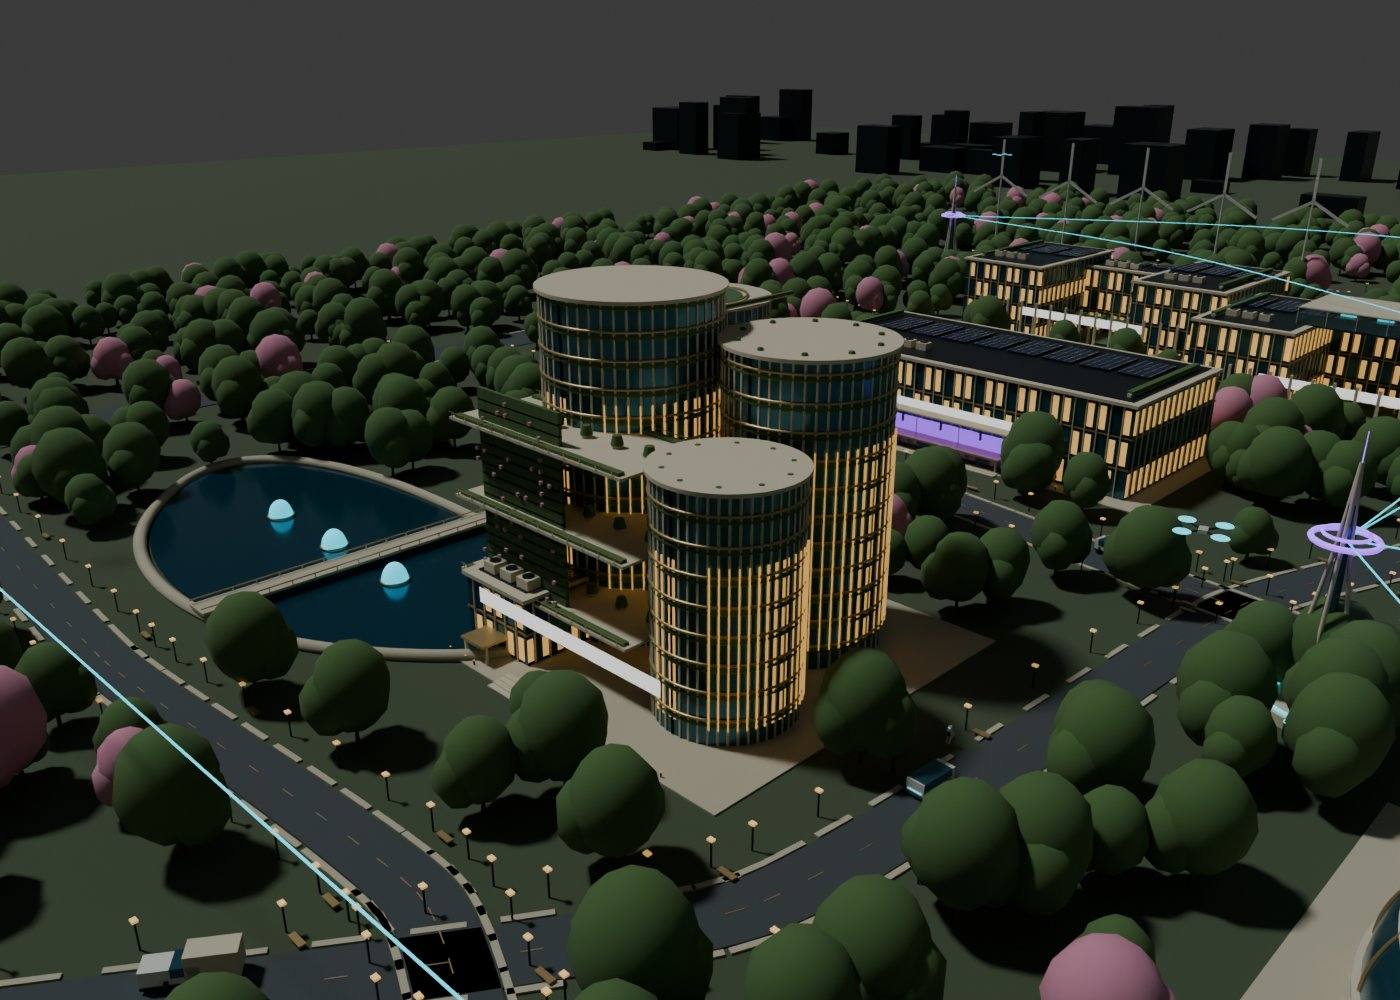
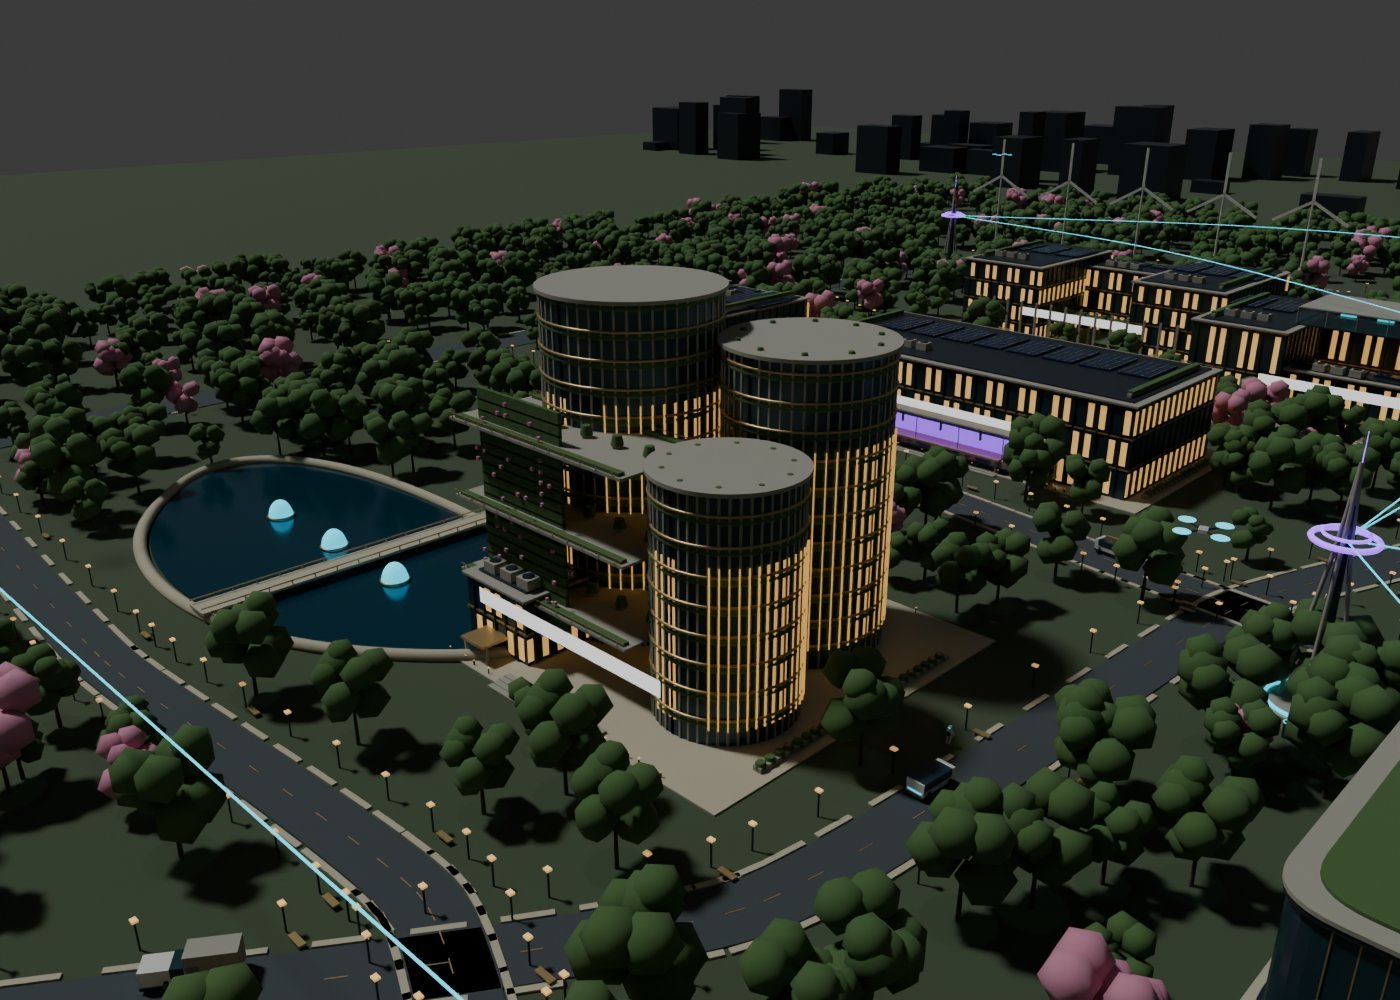
Record reconstruction evidence and outstanding GPU/device gates

diff --git a/evidence/VALIDATION-PR8.md b/evidence/VALIDATION-PR8.md
@@ -1,0 +1,61 @@
+# PR 8 reconstruction and validation
+
+## Scope and source precedence
+
+PR 7 is merged. This work continues from `f04f926b1c6eba4bb5af500f32e7ca2e15ab1482` on a new branch. The user explicitly selected: full-campus artwork for placement; CF-01–35 infographics for architecture and visible interiors; realistic interpretation of unseen rooms. The source ZIP was retrieved and all 35 facility images reviewed in contact sheets, with detailed inspection of CF-30 and the full activated campus artwork.
+
+All 35 facilities, 74 floor programs, 444 room zones, exterior positions, energy routes and autonomous fleets are preserved. CF-24/25 area assumptions remain identified.
+
+## Changes
+
+- Correct the reciprocal hardware-scaling error. At DPR 3 the old interior formula yielded 0.5 rendered pixels per CSS pixel; balanced now yields 1.5 and high yields 2. Hardware performance is not inferred from these values.
+- Replace primitive slab fixtures with joined multi-part furniture: bevelled worktops, supports, storage pedestals, five-caster chairs, armrests, monitor stands, keyboards, mouse, cups, ventilated server racks, records shelving, demonstration tables, lab equipment, growing racks, dining, teaching and fitness fixtures.
+- Glazed corridor partitions, door readers, brass reveals, coffered ceiling, acoustic timber, jointed floors, planted terraces and room-specific furniture placement.
+- Babylon PBR materials with deterministic surface textures; local room lights, daylight fill, environment reflection and one nearest-room shadow map. Geometry is merged by material within each room to limit draw calls. It still requires GPU performance testing.
+- Facility-infographic silhouettes replace conflicting aerial families for Prism, Trust Vault, curved research wings, rooftop athletic field, logistics landing pads and courtyard facilities. The new exterior remains an approximation rather than an identical reconstruction.
+- Compact/collapsible interior navigation, hide the large caption after campus interaction, selectable rendering quality, device-local performance report downloads.
+
+## Automated checks
+
+`npm test`: **10 tests pass**, including construction/disposal of all 74 Babylon floors in NullEngine, finite exterior geometry/picking IDs for all 35 facilities, preservation of the register, high-DPR render budgets, detailed fixture parts and ray-tested clear guided arrival paths for the six CF-30 L01 rooms.
+
+`npm run build`: **passes**. Vercel reported the implementation deployment READY for commit `efc11c334500725beddf4801720ccc061177864e`.
+
+NullEngine does not compile browser GPU shaders, validate transparency/shadow rendering or measure hardware frame times. The clear-path test uses an eye-height ray, not a complete swept-body collision proof.
+
+## Render evidence and corrections
+
+`interior-30-*.jpg`: Blender Cycles review of the exact shared interior geometry, rendered at 1440 × 960 with 20 samples and denoising. Albedo texture pixels come from the same surface painter as Babylon. Blender uses area lights/Cycles, not the browser's spot lights/PBR implementation. These are **offline geometry reviews**, not screenshots of the app.
+
+`offline-aerial.jpg`, `offline-north.jpg`, `offline-prism.jpg`, `offline-eden.jpg`: updated exterior geometry review. The export strips runtime canvas textures and does not reproduce animated water, Three.js sky/tone mapping, separately loaded synergy GLBs or UI. It must not be used to claim browser likeness.
+
+First interior review identified duplicate coplanar partitions (black surfaces), sparse workstations, reversed records shelving and a plant/shelf overlap. Corrections removed duplicate walls, populated work bays, oriented shelves inward, and removed the overlapping planters. The offline texture orientation was corrected separately; that change does not alter browser materials.
+
+## Actual browser findings
+
+The production site was opened in the provided Chrome. Console evidence: `GL_VENDOR = Disabled, GL_RENDERER = Disabled`, followed by a WebGL context-creation failure. The GPU-independent fallback map rendered, consistent with PR 7. This proves neither the new exterior nor new interior browser rendering.
+
+The PR 8 preview was opened from Vercel's GitHub deployment comment. It redirects this browser to Vercel login. No preview-protection setting was changed. Localhost access from this browser returned `ERR_BLOCKED_BY_CLIENT`. No desktop/mobile GPU screenshot comparison is claimed. The four user-supplied screenshots show the old implementation, not this PR.
+
+## Acceptance still open
+
+**Not identical. Not certified photorealistic. Keep draft.**
+
+- Actual desktop and mobile WebGL rendering, shader/transparency/shadow behavior, tours, repeated entry/exit, touch movement and context-loss recovery need a GPU-capable browser.
+- Per-facility matched-angle comparisons against all 35 infographics remain outstanding. Facade detail, landscape realism, equipment fidelity, material response and inferred interiors still differ.
+- Physical Galaxy A15 performance, thermal behavior, memory pressure and final reference acceptance have not been tested.
+
+See `GALAXY-A15-VALIDATION.md` for a reproducible capture route. No fabricated frame rate, device pass or visual score is supplied.
+
+## Review gallery
+
+These images are offline Blender renders of the shipped geometry; their lighting differs from the app.
+
+![Trust Vault corridor](interior-30-corridor.jpg)
+![Trust Vault visitor demonstration](interior-30-room-1.jpg)
+![Trust Vault identity operations](interior-30-room-2.jpg)
+![Trust Vault consent review](interior-30-room-4.jpg)
+![Campus southern overview](offline-aerial.jpg)
+![Prism geometry](offline-prism.jpg)
+
+Observed residual mismatch: repetitive facade glazing, simplified vegetation and skyline, sparse architectural ornament, approximate glass/lighting response and schematic room envelopes. The offline geometry is visibly more developed than the supplied current-state screenshots, but does not reproduce the facility illustrations identically.

diff --git a/evidence/GALAXY-A15-VALIDATION.md b/evidence/GALAXY-A15-VALIDATION.md
@@ -1,0 +1,13 @@
+# Galaxy A15 and desktop capture
+
+Use PR 8's Vercel Preview link while signed into the permitted Vercel account. Do not test the unchanged main deployment by mistake.
+
+1. Record phone model, Android/Chrome versions, battery/power-saving state, orientation and time. Allow the phone to cool first. Test the default Balanced mode before High detail.
+2. Open Systems → Record device performance. Close Systems and explore for at least 60 seconds: aerial orbit, Prism exterior, Trust Vault exterior, mesh/energy/fleet toggles. Capture screenshots at the same angles as the source references.
+3. Enter Trust Vault. Select Visitor demonstration, Identity operations and Credential lab; walk and drag-look; change to L02; exit and re-enter. Repeat with Prism, Eden Spire, Titan Works and Care Village. Check that all UI controls remain usable in portrait and landscape.
+4. Return to campus → Systems → Finish & download report. The JSON is generated on the device; it is not sent anywhere. Attach it with screenshots/screen recording and the model/conditions from step 1.
+5. Repeat after 10 minutes of continuous use to expose thermal degradation. Then repeat on desktop at a recorded viewport and rendering-quality setting.
+
+The report contains frame intervals grouped by engine/facility/floor/quality, mean FPS, p95 frame time and render-buffer dimensions. It excludes pauses of at least two seconds and caps the collection at 18,000 samples. It does not measure GPU time or memory, and user-agent information alone does not prove physical hardware.
+
+Proposed performance acceptance: sustained mean ≥30 FPS and p95 frame time ≤50 ms in Balanced mode, no context loss, crashes, stuck navigation or unreadable controls. Report slow segments rather than averaging them away. Visual acceptance is separate: reference placement, individual silhouette, facade/material response, furnished visible spaces, landscape and connected systems must each be checked. Unseen-room furnishing is an interpretation under the user's approved direction.
